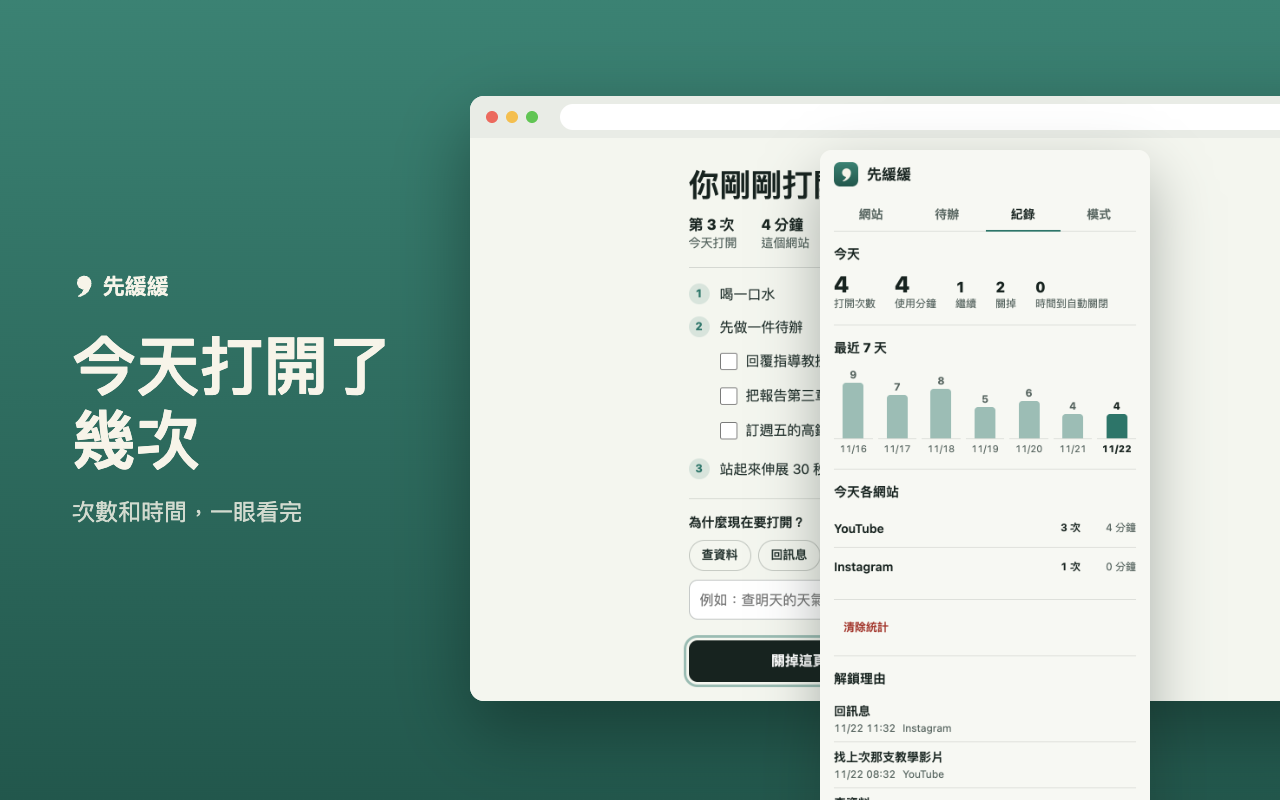
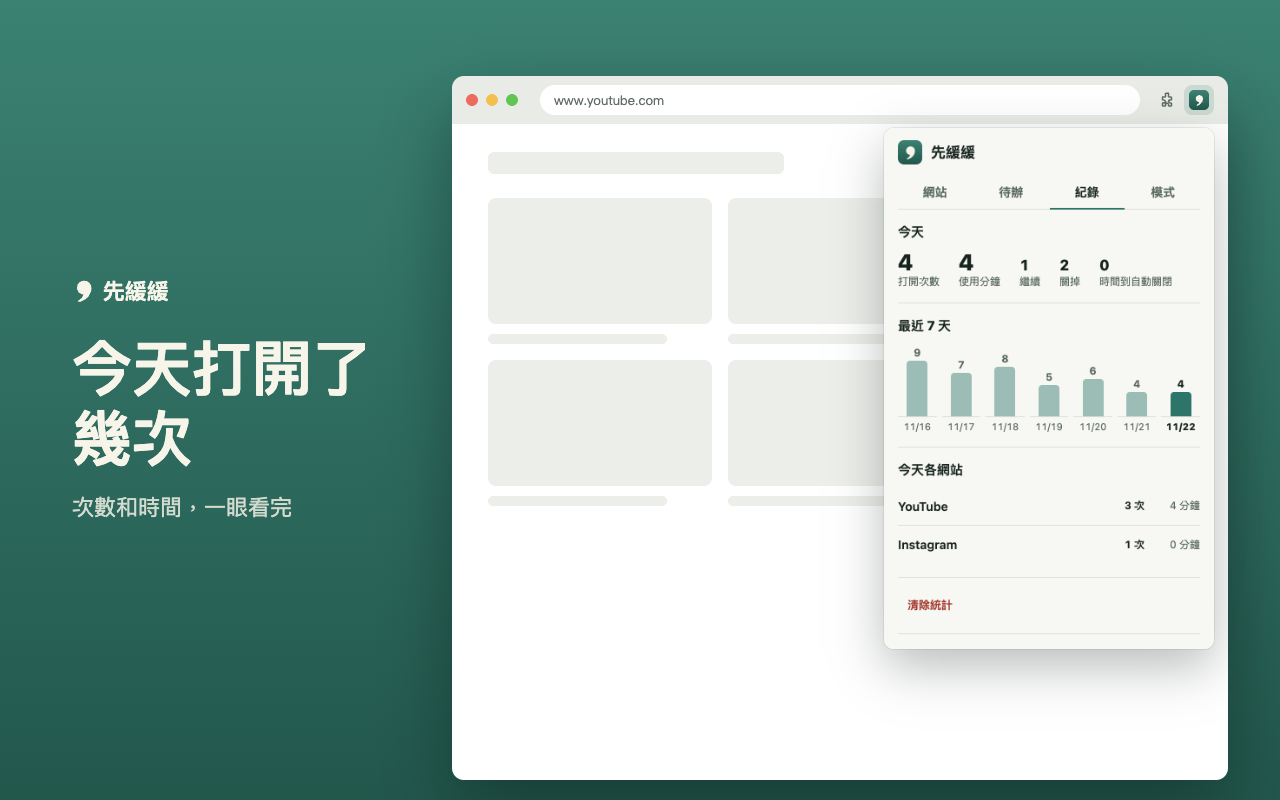
Hide the to-do step when there are no to-dos, redraw Chrome store frames, host the privacy policy on the fork
- Overlay: with no open to-dos the second step is removed and the rest
  renumbered, instead of pointing at an empty list.
- Chrome screenshots: the popup hangs from the toolbar button over a plain
  page, the window fits the frame, no scrollbars.
- Privacy policy and support URLs point to ncchen99/focus-buffer-extension.

diff --git a/scripts/render-store-screenshots.js b/scripts/render-store-screenshots.js
@@ -21,12 +21,15 @@ const { launchExtension } = require("../tests/helpers/extension.js");
 
 const ROOT = path.join(__dirname, "..");
 const OUT = path.join(ROOT, "store-assets", "screenshots");
-const ICON_PATH = fs.readFileSync(path.join(ROOT, "store-assets", "icon", "icon.svg"), "utf8").match(/<path[^>]*\/>/)[0];
+const ICON_SVG = fs.readFileSync(path.join(ROOT, "store-assets", "icon", "icon.svg"), "utf8");
+const ICON_PATH = ICON_SVG.match(/<path[^>]*\/>/)[0];
 
 const NOW = Date.now();
 const DAY = 24 * 60 * 60 * 1000;
 const PHONE = { width: 390, height: 844 };
-const DESKTOP = { width: 1040, height: 650 };
+const DESKTOP = { width: 900, height: 700 };
+// Scrollbars are an artefact of capturing, not part of the UI.
+const NO_SCROLLBARS = "*{scrollbar-width:none !important}*::-webkit-scrollbar{display:none !important}";
 
 const FONT = "'PingFang TC', 'Noto Sans TC', system-ui, sans-serif";
 const GREEN = "linear-gradient(180deg, #3b8273 0%, #22574c 100%)";
@@ -94,21 +97,24 @@ async function captureScreens(viewport, scale) {
   await overlay.setViewportSize(viewport);
   await overlay.goto("https://www.youtube.com/");
   await overlay.waitForSelector("#fb-title");
+  await overlay.addStyleTag({ content: NO_SCROLLBARS });
   await overlay.waitForTimeout(400);
   shots.overlay = await overlay.screenshot();
   await overlay.close();
 
   for (const tab of ["sites", "todos", "stats", "modes"]) {
     const popup = await ext.context.newPage();
-    // The popup is 380px wide on the desktop; on the phone it fills the sheet.
+    // The popup is 380px wide on the desktop and Chrome caps it at 600px
+    // tall; on the phone it fills the sheet.
     await popup.setViewportSize(phone ? viewport : { width: 380, height: 600 });
     await popup.goto("chrome-extension://" + ext.extensionId + "/popup.html#" + tab);
     await popup.waitForSelector("#target-list > *", { state: "attached" });
     if (phone) {
       await popup.addStyleTag({ content: "body{width:auto !important}.popup{padding-top:22px}" });
     }
+    await popup.addStyleTag({ content: NO_SCROLLBARS });
     await popup.waitForTimeout(400);
-    shots[tab] = await popup.screenshot({ fullPage: !phone });
+    shots[tab] = await popup.screenshot();
     await popup.close();
   }
 
@@ -155,28 +161,58 @@ function iphoneFrame(frame, shot) {
   );
 }
 
-// 1280×800. Headline on the left, the browser on the right.
-function chromeFrame(frame, shot, popupShot) {
+// 1280×800. Headline on the left, a browser window on the right that fits
+// inside the frame. Settings frames show the toolbar popup hanging from the
+// extension's toolbar button over an ordinary page, the way it really looks;
+// the pause-screen frame shows the page itself.
+function chromeFrame(frame, pageShot, popupShot) {
   const colors = themeOf(frame);
-  const window =
-    '<div style="position:absolute;left:470px;top:96px;width:900px;border-radius:14px;overflow:hidden;background:#fff;box-shadow:0 30px 70px ' + colors.shadow + '">' +
-    '<div style="display:flex;align-items:center;gap:8px;height:42px;padding:0 16px;background:#e9ece6">' +
-    ["#ec6a5e", "#f4bf4f", "#61c554"].map((color) => '<span style="width:12px;height:12px;border-radius:50%;background:' + color + '"></span>').join("") +
-    '<span style="flex:1;height:26px;margin-left:14px;border-radius:13px;background:#fff"></span></div>' +
-    '<img src="' + dataUrl(shot) + '" style="display:block;width:100%">' +
+  const left = 452;
+  const width = 776;
+  const toolbar = 48;
+  const contentHeight = popupShot ? 600 : Math.round((width / DESKTOP.width) * DESKTOP.height);
+  const top = Math.round((800 - toolbar - contentHeight) / 2);
+
+  const dots = ["#ec6a5e", "#f4bf4f", "#61c554"].map((color) => '<span style="width:12px;height:12px;border-radius:50%;background:' + color + '"></span>').join("");
+  const puzzle =
+    '<svg width="18" height="18" viewBox="0 0 24 24" fill="none" stroke="#5f6b66" stroke-width="2" stroke-linejoin="round">' +
+    '<path d="M10 3h4v3a2 2 0 1 0 0 0h0v2h4v4h-2a2 2 0 1 0 0 4h2v4h-4v-2a2 2 0 1 0-4 0v2H6v-4h2a2 2 0 1 0 0-4H6V8h4z"/></svg>';
+  const button =
+    '<span style="display:grid;place-items:center;width:30px;height:30px;border-radius:8px;' +
+    (popupShot ? "background:rgba(45,117,105,.16)" : "") + '">' +
+    '<span style="width:20px;height:20px;border-radius:5px;overflow:hidden;display:block">' +
+    ICON_SVG.replace("<svg ", '<svg width="20" height="20" style="display:block" ') +
+    "</span></span>";
+  const bar =
+    '<div style="display:flex;align-items:center;gap:8px;height:' + toolbar + 'px;padding:0 14px;background:#e9ece6">' +
+    dots +
+    '<span style="flex:1;display:flex;align-items:center;height:30px;margin:0 10px 0 14px;padding:0 14px;border-radius:15px;background:#fff;color:#5f6b66;font-size:13px">www.youtube.com</span>' +
+    puzzle + button + "</div>";
+
+  // An ordinary page, drawn as grey blocks, so the popup is the only content.
+  const blank =
+    '<div style="height:' + contentHeight + 'px;padding:28px 36px;background:#fff">' +
+    ['<div style="height:22px;width:42%;border-radius:6px;background:#eceeea"></div>',
+     '<div style="display:grid;grid-template-columns:repeat(3,1fr);gap:16px;margin-top:24px">' +
+       Array.from({ length: 6 }, () => '<div><div style="aspect-ratio:16/9;border-radius:8px;background:#eceeea"></div><div style="height:10px;width:80%;margin-top:10px;border-radius:5px;background:#eceeea"></div></div>').join("") +
+       "</div>"].join("") +
     "</div>";
+
+  const content = popupShot ? blank : '<img src="' + dataUrl(pageShot) + '" style="display:block;width:100%">';
   const popup = popupShot
-    ? '<div style="position:absolute;left:820px;top:150px;width:330px;border-radius:12px;overflow:hidden;box-shadow:0 24px 60px rgba(23,35,31,0.35)">' +
+    ? '<div style="position:absolute;top:' + (top + toolbar + 4) + "px;left:" + (left + width - 14 - 330) + 'px;width:330px;border-radius:10px;overflow:hidden;box-shadow:0 18px 50px rgba(23,35,31,.30),0 0 0 1px rgba(23,35,31,.08)">' +
       '<img src="' + dataUrl(popupShot) + '" style="display:block;width:100%"></div>'
     : "";
+
   return (
     '<body style="margin:0;width:1280px;height:800px;overflow:hidden;position:relative;background:' + colors.background + ";font-family:" + FONT + '">' +
-    '<div style="position:absolute;left:72px;top:0;bottom:0;width:360px;display:flex;flex-direction:column;justify-content:center">' +
+    '<div style="position:absolute;left:72px;top:0;bottom:0;width:340px;display:flex;flex-direction:column;justify-content:center">' +
     wordmark(colors, 22) +
-    '<h1 style="margin:28px 0 0;font-size:64px;line-height:1.16;font-weight:700;letter-spacing:0;color:' + colors.text + '">' + frame.headline.join("<br>") + "</h1>" +
-    '<p style="margin:18px 0 0;font-size:23px;line-height:1.45;color:' + colors.sub + '">' + frame.sub + "</p>" +
+    '<h1 style="margin:28px 0 0;font-size:60px;line-height:1.16;font-weight:700;letter-spacing:0;color:' + colors.text + '">' + frame.headline.join("<br>") + "</h1>" +
+    '<p style="margin:18px 0 0;font-size:22px;line-height:1.45;color:' + colors.sub + '">' + frame.sub + "</p>" +
     "</div>" +
-    window +
+    '<div style="position:absolute;left:' + left + "px;top:" + top + "px;width:" + width + 'px;border-radius:12px;overflow:hidden;box-shadow:0 30px 70px ' + colors.shadow + '">' +
+    bar + content + "</div>" +
     popup +
     "</body>"
   );
@@ -207,8 +243,7 @@ async function renderFrames(name, viewport, scale, htmlFor) {
   await renderFrames("iphone-6.9", { width: 440, height: 956 }, 3, (frame) => iphoneFrame(frame, phoneShots[frame.shot]));
 
   const desktopShots = await captureScreens(DESKTOP, 2);
-  // On the desktop the settings live in the toolbar popup, so every frame
-  // but the first shows the popup over the pause screen.
+  // On the desktop the settings live in the toolbar popup.
   await renderFrames("chrome", { width: 1280, height: 800 }, 1, (frame) =>
     chromeFrame(frame, desktopShots.overlay, frame.shot === "overlay" ? null : desktopShots[frame.shot])
   );

diff --git a/tests/e2e/todos.e2e.js b/tests/e2e/todos.e2e.js
@@ -31,10 +31,12 @@ test("todos in Chromium", async (t) => {
   const stored = async () => (await ext.getState()).todos;
   const byText = async (text) => (await stored()).find((item) => item.text === text);
 
-  await t.test("with no to-dos the overlay keeps its default task", async () => {
+  await t.test("with no to-dos the overlay drops the to-do step and renumbers the rest", async () => {
     const page = await openOverlay();
-    assert.equal(await page.textContent(TASK_LABEL), "看一下今天最重要的待辦");
+    assert.equal(await page.locator('#focus-buffer-root .fb-task[data-task="todo"]').count(), 0);
     assert.equal(await page.locator("#focus-buffer-root .fb-todos").count(), 0);
+    assert.deepEqual(await page.locator("#focus-buffer-root .fb-task-mark").allTextContents(), ["1", "2"]);
+    assert.deepEqual(await page.locator("#focus-buffer-root .fb-task-label").allTextContents(), ["喝一口水", "站起來伸展 30 秒"]);
     await page.close();
   });
 

diff --git a/extension/features/todos.js b/extension/features/todos.js
@@ -297,7 +297,16 @@
       render(ctx) {
         const extras = ctx.extras;
         const taskRow = ctx.tasks && ctx.tasks.todo;
-        if (!taskRow || !extras || !Array.isArray(extras.open) || extras.open.length === 0) {
+        if (!taskRow || !extras || !Array.isArray(extras.open)) {
+          return;
+        }
+        // Nothing to do: drop the to-do step instead of pointing at an empty
+        // list, and number the steps that are left 1, 2.
+        if (extras.open.length === 0) {
+          taskRow.remove();
+          ctx.panel.querySelectorAll(".fb-task .fb-task-mark").forEach((mark, index) => {
+            mark.textContent = String(index + 1);
+          });
           return;
         }
         const el = ctx.el;

diff --git a/PRIVACY.md b/PRIVACY.md
@@ -27,4 +27,4 @@
 
 ## 聯絡
 
-有問題請到 GitHub 開 issue：<https://github.com/horseface1110/focus-buffer-extension/issues>
+有問題請到 GitHub 開 issue：<https://github.com/ncchen99/focus-buffer-extension/issues>
